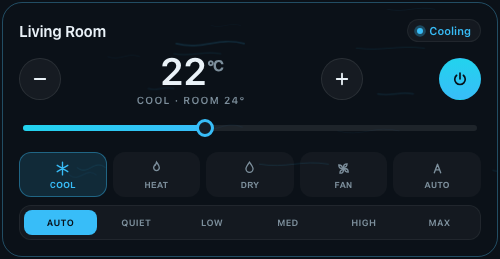
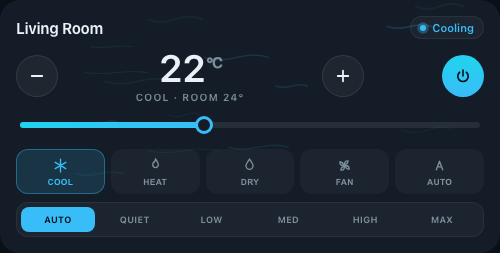
Render widgets on the standard Homey card
Set transparent: false so the dashboard draws its native frame
(background, radius, shadow) like every other widget, and drop our
own border/background — the page now paints content only. Previews
emulate the card via a data-preview flag since the frame only exists
in the dashboard. Heights: full 588, mini 253. Changelog reworded.

diff --git a/widgets/ac-control/public/index.html b/widgets/ac-control/public/index.html
@@ -62,23 +62,23 @@
     font-family: system-ui, -apple-system, "Segoe UI", Roboto, sans-serif;
     -webkit-font-smoothing: antialiased;
     font-size: var(--homey-font-size-small, 14px);
-    padding: 2px;
     user-select: none;
     -webkit-user-select: none;
   }
 
+  /* Homey draws the widget card (frame, radius, shadow, background);
+     this container only pads the content and clips the airflow canvas. */
   .widget {
     width: 100%;
-    border-radius: 24px;
+    border-radius: var(--homey-border-radius-default, 20px);
     padding: var(--homey-su-5, 20px);
     position: relative;
     overflow: hidden;
-    background: transparent;
-    border: 1px solid var(--card-edge);
-    transition: border-color .6s ease;
   }
-  .widget[data-on="true"] {
-    border-color: color-mix(in srgb, var(--accent) 30%, var(--card-edge));
+  /* previews render outside the dashboard — emulate the Homey card there */
+  .widget[data-preview="true"] {
+    background: var(--surface-1);
+    box-shadow: 0 14px 40px -18px rgba(0,0,0,.35);
   }
 
   /* ambient airflow canvas sits behind content */
@@ -313,6 +313,7 @@
   // ---- elements ----------------------------------------------------------
   const el = id => document.getElementById(id);
   const widget = el("widget");
+  if (params.has("preview")) widget.dataset.preview = "true";
   el("track").setAttribute("d", arcPath(A0, A1));
 
   // build mode chips

diff --git a/widgets/ac-control-mini/public/index.html b/widgets/ac-control-mini/public/index.html
@@ -59,23 +59,23 @@
     font-family: system-ui, -apple-system, "Segoe UI", Roboto, sans-serif;
     -webkit-font-smoothing: antialiased;
     font-size: var(--homey-font-size-small, 14px);
-    padding: 2px;
     user-select: none;
     -webkit-user-select: none;
   }
 
+  /* Homey draws the widget card (frame, radius, shadow, background);
+     this container only pads the content and clips the airflow canvas. */
   .widget {
     width: 100%;
-    border-radius: 20px;
+    border-radius: var(--homey-border-radius-default, 20px);
     padding: var(--homey-su-4, 16px);
     position: relative;
     overflow: hidden;
-    background: transparent;
-    border: 1px solid var(--card-edge);
-    transition: border-color .6s ease;
   }
-  .widget[data-on="true"] {
-    border-color: color-mix(in srgb, var(--accent) 30%, var(--card-edge));
+  /* previews render outside the dashboard — emulate the Homey card there */
+  .widget[data-preview="true"] {
+    background: var(--surface-1);
+    box-shadow: 0 14px 40px -18px rgba(0,0,0,.35);
   }
 
   /* ambient airflow canvas sits behind content */
@@ -278,6 +278,7 @@
   // ---- elements ----------------------------------------------------------
   const el = id => document.getElementById(id);
   const widget = el("widget");
+  if (params.has("preview")) widget.dataset.preview = "true";
 
   // build mode chips
   const modesBox = el("modes");
